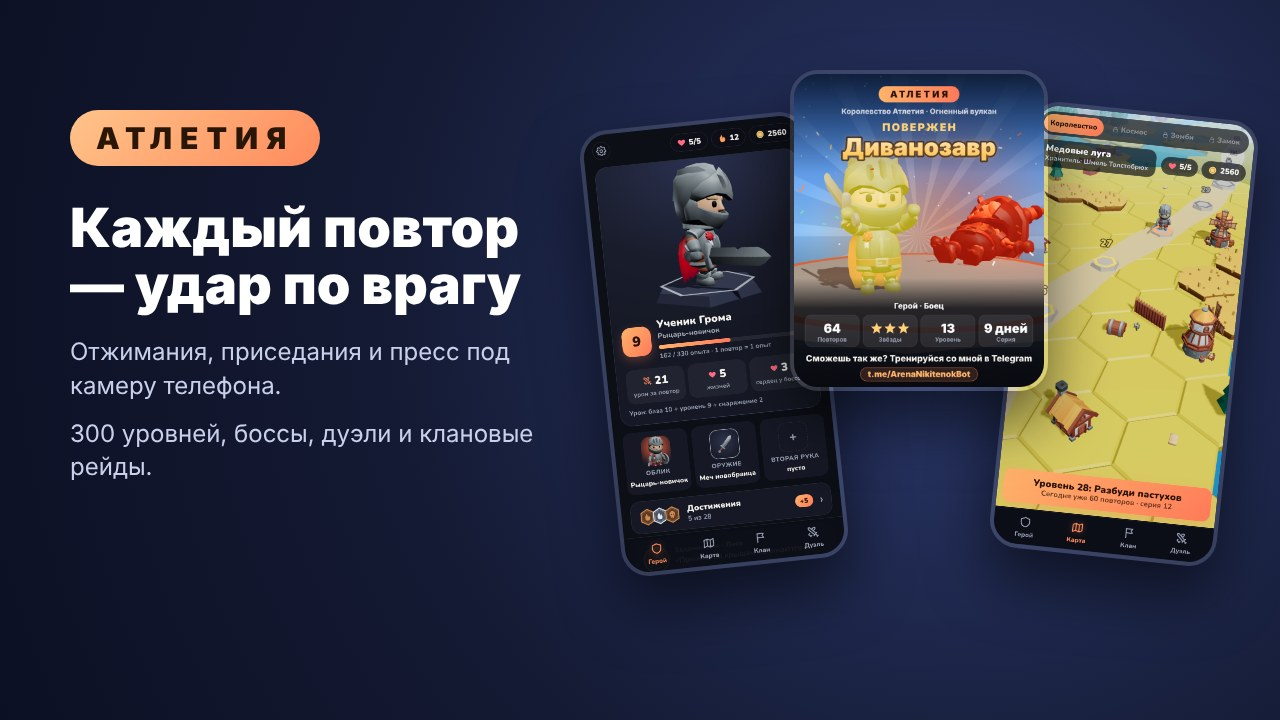
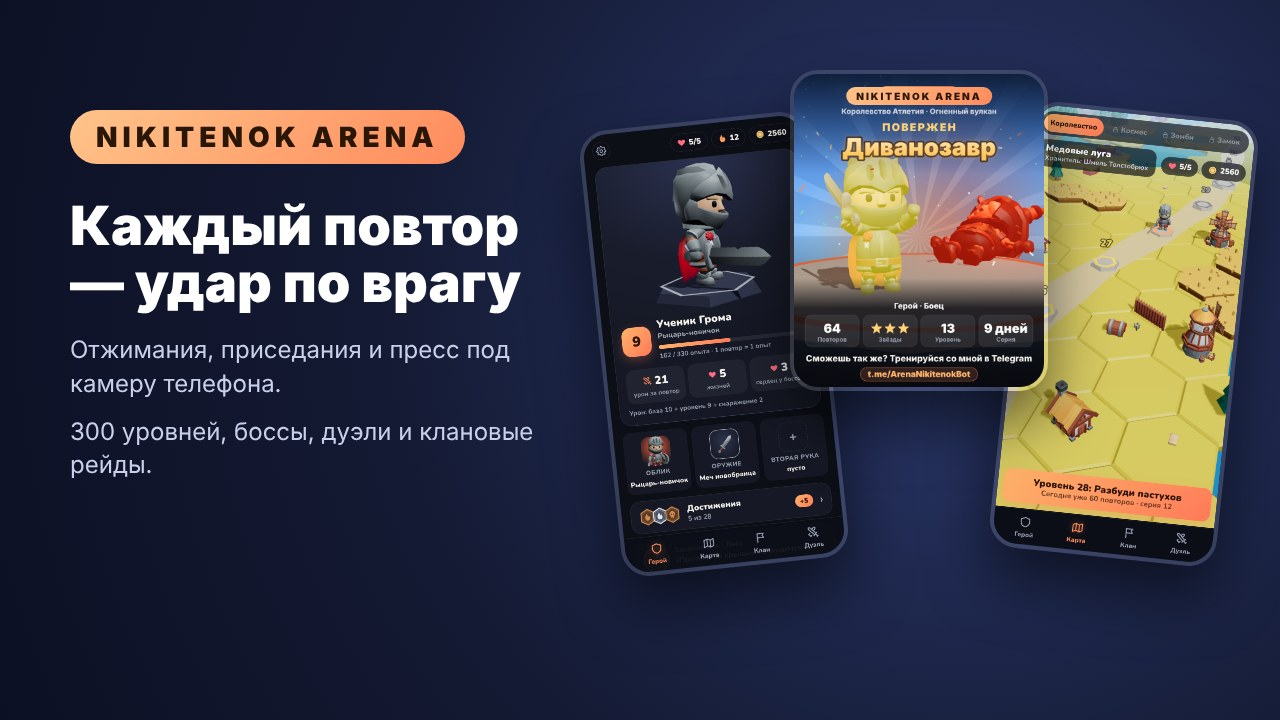
Название приложения везде NikitenokArena: бот, знакомство, приглашения, открытка, картинка приветствия
«Атлетия» остаётся только названием мира внутри игры.

Claude-Session: https://claude.ai/code/session_01Fvd3oXJayuTg9icRXPF46f

diff --git a/src/game/ShareCard.tsx b/src/game/ShareCard.tsx
@@ -401,7 +401,7 @@ export async function drawCard(data: CardData, scene: HTMLCanvasElement | null):
 
   // Логотип игры.
   g.font = `900 40px ${FONT}`;
-  const brand = 'АТЛЕТИЯ';
+  const brand = 'NIKITENOK ARENA';
   g.letterSpacing = '10px';
   const bw = g.measureText(brand).width + 90;
   roundRect(g, cx - bw / 2, 52, bw, 70, 35);
@@ -508,7 +508,7 @@ export async function makeShareCard(data: CardData): Promise<Blob> {
 
 /* ---------- Отправка ---------- */
 
-export const shareText = (boss: string) => `Я победил босса «${boss}» в Атлетии! ${INVITE}`;
+export const shareText = (boss: string) => `Я победил босса «${boss}» в NikitenokArena! ${INVITE}`;
 
 /** Поделиться картинкой: системное меню с файлом, загрузка через Telegram (нужна https-ссылка) или скачивание. */
 export async function shareImage(blob: Blob, text: string, url?: string): Promise<'shared' | 'saved' | 'cancelled'> {
@@ -516,7 +516,7 @@ export async function shareImage(blob: Blob, text: string, url?: string): Promis
   const file = new File([blob], name, { type: 'image/png' });
   if (navigator.canShare?.({ files: [file] })) {
     try {
-      await navigator.share({ files: [file], text, title: 'Атлетия' });
+      await navigator.share({ files: [file], text, title: 'NikitenokArena' });
       return 'shared';
     } catch (e) {
       if (e instanceof DOMException && e.name === 'AbortError') return 'cancelled';

diff --git a/src/clan/ClanScreen.tsx b/src/clan/ClanScreen.tsx
@@ -138,7 +138,7 @@ export function ClanScreen({ progress, setProgress, onPlaying, landNow, onSpendM
           <Banner size={28} />
           <div>
             <div className="claim-title">Кланы живут в Telegram</div>
-            <div className="muted">Открой Атлетию в Telegram: там ты войдёшь под своим именем, а приглашение сработает само.</div>
+            <div className="muted">Открой NikitenokArena в Telegram: там ты войдёшь под своим именем, а приглашение сработает само.</div>
           </div>
         </div>
         <a className="primary btn-link" href={invite.current ? clanInviteLink(invite.current, api.bot) : `https://t.me/${api.bot.username}`}>
@@ -217,7 +217,7 @@ export function ClanScreen({ progress, setProgress, onPlaying, landNow, onSpendM
         <button
           className="secondary"
           onClick={async () => {
-            const how = await share(clanInviteLink(clan.code, api.bot), `Вступай в клан «${clan.name}» в Атлетии: вместе бьём рейд-босса по выходным!`).catch(() => null);
+            const how = await share(clanInviteLink(clan.code, api.bot), `Вступай в клан «${clan.name}» в NikitenokArena: вместе бьём рейд-босса по выходным!`).catch(() => null);
             if (how === 'copied') show('Ссылка скопирована');
           }}
         >

diff --git a/src/game/Onboarding.tsx b/src/game/Onboarding.tsx
@@ -11,8 +11,8 @@ export function Onboarding({ onDone, replay }: { onDone: (start: boolean) => voi
   const [step, setStep] = useState(0);
   const steps = [
     {
-      title: 'Добро пожаловать в Атлетию!',
-      text: 'Я Мастер Гром. Князь Диван усыпил королевство ленью, и разбудить его можно только движением. Здесь каждый твой повтор — удар по врагу, шаг по карте и сила героя.',
+      title: 'Добро пожаловать в NikitenokArena!',
+      text: 'Я Мастер Гром. Князь Диван усыпил королевство Атлетию ленью, и разбудить его можно только движением. Здесь каждый твой повтор — удар по врагу, шаг по карте и сила героя.',
     },
     {
       title: 'Камера считает сама',

diff --git a/src/Duel.tsx b/src/Duel.tsx
@@ -136,7 +136,7 @@ export function Duel({ exercise }: { exercise: Exercise }) {
     if (!room) return;
     const how = await share(
       inviteLink(room.code, me?.bot ?? { username: null, running: false }),
-      `Вызываю тебя на бой в Fit Arena: ${EXERCISE_LABELS[room.exercise].toLowerCase()}, кто больше за минуту!`,
+      `Вызываю тебя на бой в NikitenokArena: ${EXERCISE_LABELS[room.exercise].toLowerCase()}, кто больше за минуту!`,
     ).catch(() => null);
     setShared(how === 'copied' ? 'Ссылка скопирована' : null);
   };

diff --git a/server/index.ts b/server/index.ts
@@ -1,4 +1,4 @@
-// Сервер матчей Fit Arena: комнаты на двоих и бой по WebSocket.
+// Сервер матчей NikitenokArena: комнаты на двоих и бой по WebSocket.
 //   PORT — порт (по умолчанию 8787)
 //   BOT_TOKEN — токен бота: проверяем подпись Telegram и узнаём имя бота для ссылок
 //   BOT_TOKEN_FILE — файл с токеном, он главнее BOT_TOKEN (по умолчанию .bot-token рядом с сервером;

diff --git a/index.html b/index.html
@@ -3,7 +3,7 @@
   <head>
     <meta charset="UTF-8" />
     <meta name="viewport" content="width=device-width, initial-scale=1, viewport-fit=cover" />
-    <title>Fit Arena</title>
+    <title>NikitenokArena</title>
     <script src="https://telegram.org/js/telegram-web-app.js"></script>
   </head>
   <body>
